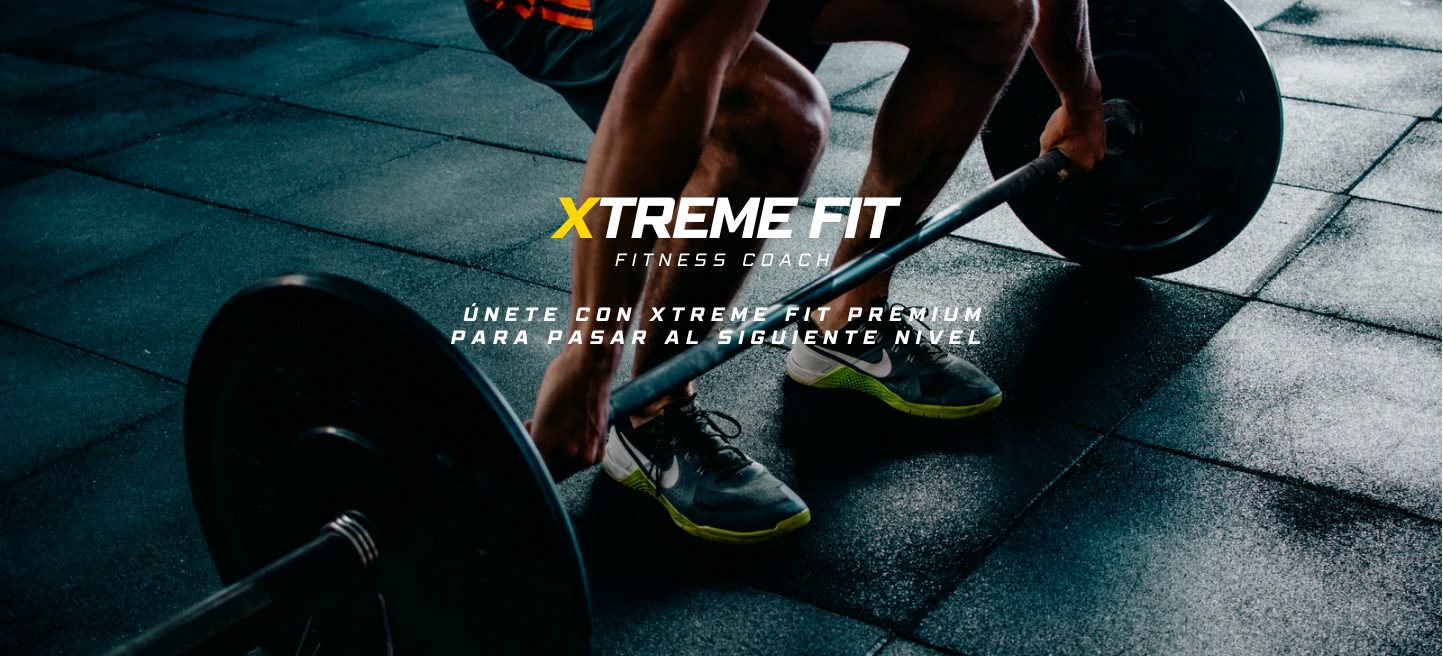
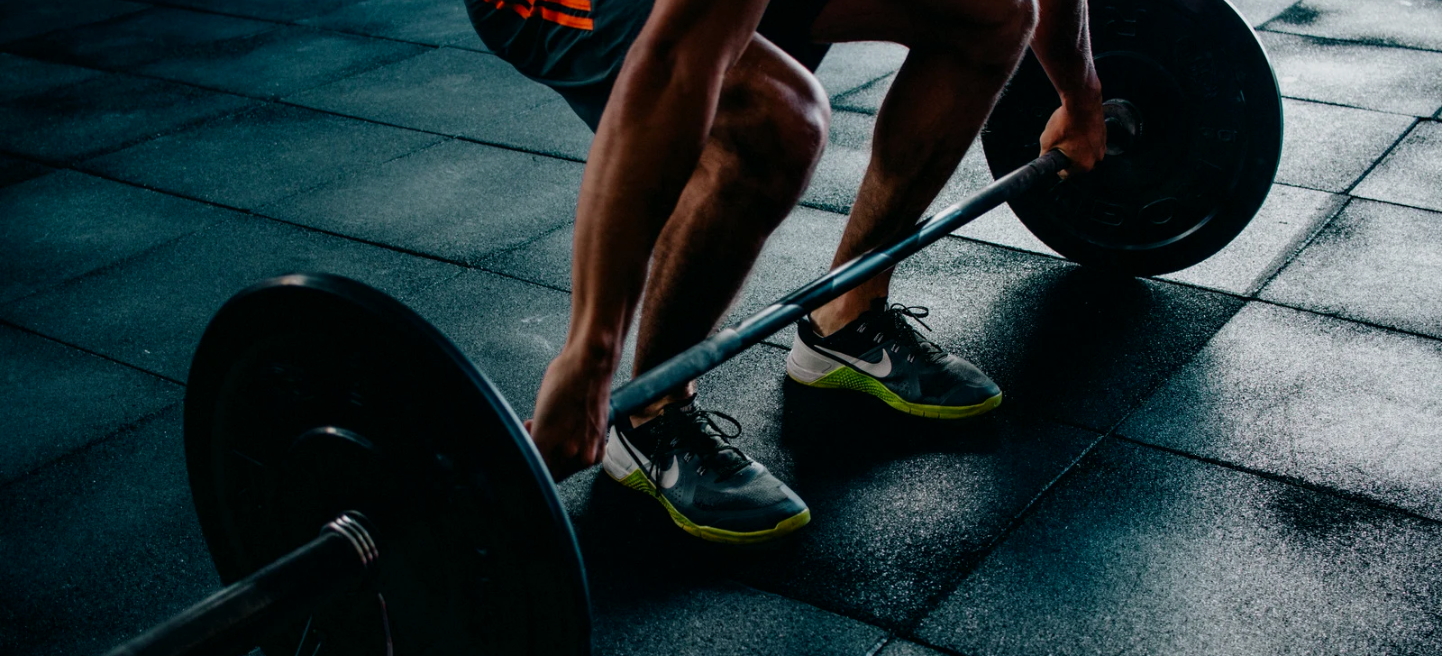
Avanzo en el Inicio y empiezo premium.html

Changed region(s): [[0.3742, 0.2744, 0.6237, 0.4268], [0.3119, 0.4573, 0.6861, 0.5488]]

diff --git a/inicio.html b/inicio.html
@@ -2,8 +2,9 @@
 <html>
     <head>
         <meta charset="UTF-8">
-        <meta name="viewport" content="width=device-width, initial-scale=1.0">
-        <title></title>
+        <meta name="viewport" content="width=device-width, initial-scale=1.0">        
+        <title>XtremeFit</title>
+        <link rel="icon" href="./img/icono.png">
         <link rel="stylesheet" href="./style.css">
     </head>
     <body>
@@ -21,14 +22,19 @@
                         <a href="#">NUTRICIÓN</a>
                     </li>
                     <li><a href="#">TIENDA</a></li>
-                    <li><a href="#">PREMIUM</a></li>
+                    <li><a href="./premium.html">PREMIUM</a></li>
                     <li><a href="#">INICIAR SESIÓN</a></li>
                 </ul>
             </nav>
         </header>
         <main>
             <section id="banner">
-                <a href="#">UNIRME</a>
+                <div>
+                    <img src="./img/logo banner.png" alt="">
+                    <p>¡ UNETE A NOSOTROS CON XTREME FIT PREMIUM<br> PARA LLEGAR AL SIGUIENTE NIVEL !</p>
+                    <a href="#">UNIRME</a>
+                </div>
+                
             </section>
             <section id="pres">                
                 <h2>¿Quiénes somos?</h2>
@@ -46,7 +52,13 @@
                     <div class="container">
                         <img src="./img/ofrece img.webp" alt="">
                         <div>
-                            <p>✅ Acceso a una amplia variedad de entrenamientos diseñados para distintos objetivos y niveles de experiencia.<br>✅ Planes de entrenamiento personalizados para usuarios premium, adaptados a sus metas específicas.<br>✅ Contacto directo con un coach personal para recibir asesoría especializada (servicio premium).<br>✅ Guías de nutrición y dietas según tu meta: aumento de masa muscular, pérdida de grasa o mantenimiento.<br>✅ Tienda especializada con suplementos, proteínas y productos de nutrición para potenciar tu rendimiento.<br>✅ Comunidad y soporte para mantenerte motivado en cada paso de tu transformación.</p>      
+                            <p>✅ Acceso a una amplia variedad de <strong>entrenamientos</strong> diseñados para distintos objetivos y niveles de experiencia.<br>
+                                ✅ <strong>Planes de entrenamiento personalizados</strong> para usuarios premium, adaptados a sus metas específicas.<br>
+                                ✅ Contacto directo con un <strong>coach personal</strong> para recibir asesoría especializada (servicio premium).<br>
+                                ✅ <strong>Guías de nutrición</strong> y <strong>dietas</strong> según tu meta: aumento de masa muscular, pérdida de grasa o mantenimiento.<br>
+                                ✅ Tienda especializada con <strong>suplementos</strong>, <strong>proteínas</strong> y productos de nutrición para potenciar tu rendimiento.<br>
+                                ✅ <strong>Comunidad</strong> y soporte para mantenerte motivado en cada paso de tu transformación.</p>
+                                     
                         </div>              
                     </div>
                 </div>
@@ -55,7 +67,7 @@
                 <h2>Entrenamientos efectivos y personalizados</h2>
                 <div class="container">
                     <div>
-                        <p>En nuestra plataforma, encontrarás una biblioteca de entrenamientos clasificados por objetivo, nivel y equipamiento necesario. Si quieres dar un paso más, con nuestra suscripción premium recibirás un plan diseñado específicamente para ti de manos de un coach profesional, optimizando cada detalle para que alcances tus resultados en el menor tiempo posible.</p>        
+                        <p>En nuestra plataforma, encontrarás una biblioteca de <strong>entrenamientos</strong> clasificados por <strong>objetivo</strong>, <strong>nivel</strong> y <strong>equipamiento necesario</strong>. Si quieres dar un paso más, con nuestra <strong>suscripción premium</strong> recibirás un <strong>plan</strong> diseñado específicamente para ti de manos de un <strong>coach profesional</strong>, optimizando cada detalle para que alcances tus <strong>resultados</strong> en el menor tiempo posible.</p>        
                     </div>                
                     <img src="./img/entren img.webp" alt="">
                 </div>      
@@ -66,7 +78,7 @@
                     <div class="container">
                         <img src="./img/coach img.jpg" alt="">
                         <div>
-                            <p>Para quienes buscan un acompañamiento más cercano, ofrecemos la posibilidad de contactar directamente con un coach personal. Este servicio premium te permitirá resolver dudas, recibir ajustes en tu plan y asegurarte de que estás progresando de manera eficiente. También pueden aportar ayuda y consejos para mejorar tu nutrición y así llevar una dieta más adecuada a tu metabolismo y estilo de vida.</p>      
+                            <p>Para quienes buscan un acompañamiento más cercano, ofrecemos la posibilidad de contactar directamente con un <strong>coach personal</strong>. Este <strong>servicio premium</strong> te permitirá resolver dudas, recibir ajustes en tu <strong>plan</strong> y asegurarte de que estás progresando de manera eficiente. También pueden aportar ayuda y consejos para mejorar tu <strong>nutrición</strong> y así llevar una <strong>dieta</strong> más adecuada a tu <strong>metabolismo</strong> y <strong>estilo de vida</strong>.</p>     
                         </div>              
                     </div>
                 </div>
@@ -75,7 +87,7 @@
                 <h2>Nutrición</h2>
                 <div class="container">
                     <div>
-                        <p>La alimentación es clave en cualquier transformación. Ofrecemos guías y planes nutricionales adaptados a tu meta, ya sea ganar músculo, perder grasa o mejorar tu rendimiento deportivo. Además, en nuestra tienda encontrarás suplementos y productos diseñados para complementar tu dieta y mejorar tus resultados.</p>        
+                        <p>La <strong>alimentación</strong> es clave en cualquier transformación. Ofrecemos <strong>guías</strong> y <strong>planes nutricionales</strong> adaptados a tu meta, ya sea ganar <strong>músculo</strong>, perder <strong>grasa</strong> o mejorar tu <strong>rendimiento deportivo</strong>. Además, en nuestra tienda encontrarás <strong>suplementos</strong> y <strong>productos</strong> diseñados para complementar tu <strong>dieta</strong> y mejorar tus <strong>resultados</strong>.</p>    
                     </div>                
                     <img src="./img/nutri img.png" alt="">
                 </div>      

diff --git a/style.css b/style.css
@@ -16,6 +16,7 @@ header {
 	border-bottom: 6px solid #ffd600;
 	position: fixed;
 	width: 100%;
+	z-index: 9999;
 }
 header ul {
 	list-style-type:none;
@@ -33,7 +34,7 @@ header li {
 /* Estilos para los link */
 header li a {
 	display:block;
-	min-width:140px;
+	padding: 0 23px;
 	height: 50px;
 	text-align: center;
 	line-height: 50px;
@@ -108,27 +109,45 @@ input[type=checkbox]:checked ~ #menu{
 #banner {
 	background: url(./img/Banner\ img.png);
 	background-size: cover;
-	height: 90vh;
+	height: 95vh;
+	width: 100%;
+	background-position: center center;
 	display: flex;
 	align-items: center;
 	justify-content: center;
+	text-align: center;
 }
 #banner a {
 	text-decoration: none;
 	color: black;
 	background-color: #ffd600;
 	padding: 12px 26px;
+	display: inline-block;
 	font-family: 'Montserrat';
 	font-weight: bold;
 	border: 3px solid #ffd600;
 	border-radius: 3px;
-	margin-top: 16%;
 }
 #banner a:hover {
 	color: #ffd600;
 	background-color: transparent;
 	border-radius: 8%;
 	border-color: #ffd600;
+}
+#banner p{
+	color: white;
+	font-weight: bold;
+	font-style: italic;
+	text-align: center;
+	font-size: 1.3rem;
+	margin: 40px 0;
+	letter-spacing: 0.3rem;
+	text-shadow: 2px 2px 4px rgba(0, 0, 0, 0.5); 
+}
+#banner img{
+	width: 80%;
+  filter: drop-shadow(10px 10px 15px rgba(0, 0, 0, 10));
+
 }
 
 /* SECC: PRESENTACION, ENTRENAMIENTOS Y NUTRICIOÓN*/
@@ -138,10 +157,59 @@ input[type=checkbox]:checked ~ #menu{
 }
 
 h2 {
-    margin-bottom: 20px;
     font-size: 2em;
-    text-align: center;
     color: #333;
+	font-family: 'Montserrat';
+}
+
+#pres h2, #sec-entren h2, #sec-nutri h2{
+	text-align: start;
+	position: relative;
+	padding-bottom: 10px;
+}
+
+#ofrece h2, #sec-coach h2{
+	text-align: end;
+	position: relative;
+	padding-bottom: 10px;
+}
+
+#pres h2::after, #sec-entren h2::after, #sec-nutri h2::after{
+	content: "";
+	position: absolute;
+	height: 3px;
+	background-color: #ffd600; 
+	bottom: 0;
+  	left: 0;
+}
+
+#pres h2::after{
+	width: 15%;
+}
+
+#sec-entren h2::after{
+	width: 40%;
+}
+
+#sec-nutri h2::after{
+	width: 7%;
+}
+
+#ofrece h2::after, #sec-coach h2::after{
+	content: "";
+	position: absolute;
+	height: 3px;
+	background-color: #ffd600; 
+	bottom: 0;
+  	right: 0;
+}
+
+#ofrece h2::after{
+	width: 15%;
+}
+
+#sec-coach h2::after{
+	width: 38%;
 }
 
 .container{
@@ -151,13 +219,15 @@ h2 {
 }
 
 #pres img, #sec-entren img, #sec-nutri img {
-    width: 43%;    
+    width: 32%;    
     border-radius: 10px;
 	box-shadow: 4px 4px 15px rgba(0, 0, 0, 0.2);
 }
 
 p {
-    line-height: 1.7rem;
+    line-height: 2rem;
+	font-size: 1.05rem;
+	font-family: 'Montserrat';
 }
 
 /* SECC: OFRECE Y COACH*/
@@ -167,7 +237,7 @@ p {
 }
 
 #ofrece img, #sec-coach img{
-	width: 43%;    
+	width: 32%;    
     border-radius: 10px;
 	box-shadow: 4px 4px 15px rgba(0, 0, 0, 0.2);
 }
@@ -202,17 +272,26 @@ footer ul{
 }
 footer a{
 	text-decoration: none;
-	color: rgba(255, 255, 255, 0.664);
-	font-size: 17px;
+	color: #ffffffa9;
+	font-size: 12px;
+	font-family: 'Montserrat';
 }
 footer h3{
-	font-size: 20px;
+	font-size: 14px;
 	color: white;
+	font-family: 'Montserrat';
 }
 
+/* --------- PREMIUM --------- */
 
+#premium{
+	background-color: whitesmoke
+}
+#prem-banner img{
+	width: 100%;
+	height: 85vh;
 
-
+}
 
 
 
@@ -221,7 +300,7 @@ footer h3{
 
 /* estilos responsive */
 
-@media screen and (max-width : 768px){
+@media screen and (max-width : 992px){
 	/*Hace que el dropdown links aparescan en linea */
 	ul {
 		position: static;
@@ -242,8 +321,8 @@ footer h3{
     header{
         display: block;
         text-align: center;
-        position: sticky;
         top:0;
+		padding: 0;
     }
 
 }

diff --git a/premium.html b/premium.html
@@ -1,0 +1,55 @@
+<!DOCTYPE html>
+<html>
+    <head>
+        <meta charset="UTF-8">
+        <meta name="viewport" content="width=device-width, initial-scale=1.0">        
+        <title>XtremeFit - Premium</title>
+        <link rel="icon" href="./img/icono.png">
+        <link rel="stylesheet" href="./style.css">
+    </head>
+    <body>
+        <header>
+            <div class="logo"><a href="./inicio.html"><img src="./img/Logo_XtremeFit_Sinfondo.png" alt=""></a></div>
+            <nav>
+                <label for="show-menu" class="show-menu"><img src="./img/menu.png" alt=""></label>
+                <input type="checkbox" id="show-menu" role="button">
+                    <ul id="menu">
+                    <li><a href="#">ENTRENAMIENTOS</a></li>
+                    <li>
+                        <a href="#">COACH</a>
+                    </li>
+                    <li>
+                        <a href="#">NUTRICIÓN</a>
+                    </li>
+                    <li><a href="#">TIENDA</a></li>
+                    <li><a href="./premium.html">PREMIUM</a></li>
+                    <li><a href="#">INICIAR SESIÓN</a></li>
+                </ul>
+            </nav>
+        </header>
+        <main id="premium">
+            <section id="prem-banner">
+                <img src="./img/premium_banner2.png" alt="">
+            </section>
+        </main>
+        <footer>            
+            <ul>
+                <h3>Únase al grupo Xtreme Fit</h3>
+                <li><a href="#">Trabaja con nosotros</a></li>
+            </ul>
+            <ul>
+                <h3>Ayuda e información</h3>
+                <li><a href="#">Contacto</a></li>
+                <li><a href="#">Trabaja con nosotros</a></li>
+                <li><a href="#">Aviso Legal</a></li>
+            </ul>            
+            <div>
+                <img src="./img/Logo_XtremeFit_Sinfondo.png" alt="">
+                <div class="redes">
+                    <a href=""><img src="./img/tiktok.svg" alt=""></a>
+                    <a href=""><img src="./img/instagram.svg" alt=""></a>
+                </div>
+            </div>
+        </footer>
+    </body>
+</html>
